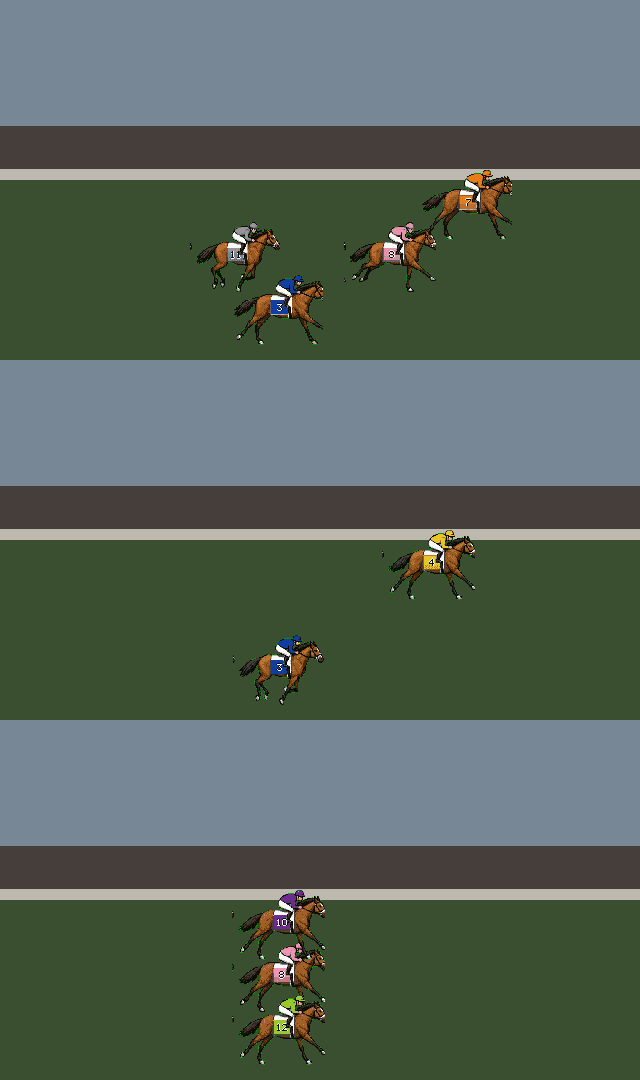
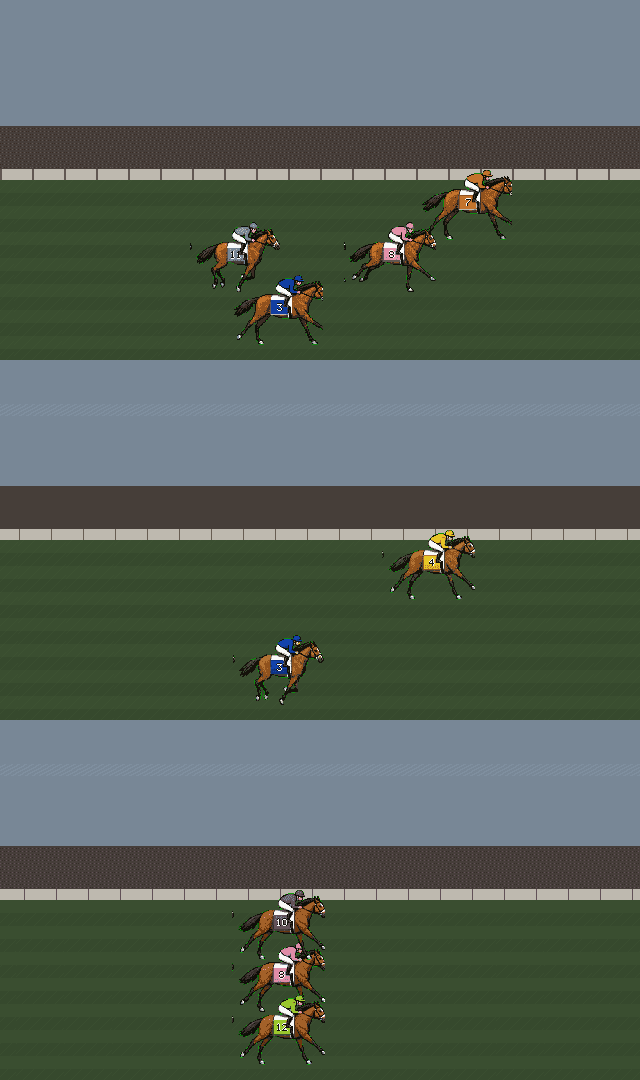
P4: 多層パララックス背景（アートバイブル §3「奥行きは速度差だけで作る」）
★層の速さは実測から決めた（推測ではない）:
  馬の見た目の速度 647px/秒（55px/m × 実測の走破速度）に対して
    空       0.06 →  39px/秒（画面横断 33秒）… 動いていると分かる遅さ
    スタンド 0.22 → 142px/秒
    ラチ     0.55 → 356px/秒
    芝       1.00 → 647px/秒（馬と同じ）

  parallax 描画コマンドを追加（role / y / height / tileWidth / offset）
  ★offset は 0 以上に保つ（負の剰余はレンダラごとに挙動が違う）

検査5件:
  ★層ごとに速さが違う（全部同じなら平面になる）
  ★手前ほど速い（空 < スタンド < ラチ < 芝）
  ★時間が進むと流れる（止まって見えない）
  ★オフセットが 0 以上
  ★倍率を変えても層が消えない

模様は縦の要素を最小限に（アートバイブル §3）。縦を使うのはラチの支柱だけ。

テスト 682件緑

diff --git a/packages/render/src/scene.ts b/packages/render/src/scene.ts
@@ -122,11 +122,23 @@ export interface SceneInput {
   readonly pxPerMeter?: number | undefined;
 }
 
-/** ★背景の帯。アートバイブル §3「水平の帯で構成する。縦の要素は最小限」 */
-const BANDS: readonly { role: PaletteRole; top: number; height: number }[] = [
-  { role: 'sky', top: 0, height: 0.35 },
-  { role: 'stand', top: 0.35, height: 0.12 },
-  { role: 'rail', top: 0.47, height: 0.03 },
+/**
+ * ★背景の層（アートバイブル §3「水平の帯で構成する」「奥行きは速度差だけで作る」）。
+ *
+ *   `speed` は**手前（走路）を 1.0 としたときの流れる速さ**。
+ *   実測（馬の見た目の速度 647px/秒）に対して:
+ *     空 0.06 → 39px/秒（画面横断 33秒）… 動いていると分かる遅さ
+ *     スタンド 0.22 → 142px/秒
+ *     ラチ 0.55 → 356px/秒
+ *
+ *   ⚠ **速さは奥行きの表現そのもの**です。全部同じにすると平面になります。
+ */
+const BANDS: readonly {
+  role: PaletteRole; top: number; height: number; speed: number; tile: number;
+}[] = [
+  { role: 'sky', top: 0, height: 0.35, speed: 0.06, tile: 320 },
+  { role: 'stand', top: 0.35, height: 0.12, speed: 0.22, tile: 160 },
+  { role: 'rail', top: 0.47, height: 0.03, speed: 0.55, tile: 64 },
 ];
 
 /**
@@ -172,18 +184,29 @@ export function sceneAt(input: SceneInput, sec: number): Frame {
   const horses = model.at(sec);
   const cam = cameraMeters(horses, camera.followGate);
   const commands: DrawCommand[] = [];
+  const PX_PER_M = input.pxPerMeter ?? SPRITE.width / 4;
 
+  /**
+   * ★背景は**カメラの位置に応じて流します**（パララックス）。
+   *   `cam` は先頭（または自馬）が走った距離なので、**そのまま流れの量**になります。
+   */
   for (const b of BANDS) {
     commands.push({
-      kind: 'band', role: b.role,
+      kind: 'parallax', role: b.role,
       y: Math.round(b.top * vp.height),
       height: Math.round(b.height * vp.height),
+      tileWidth: b.tile,
+      // ★0 以上に保つ（負の剰余はレンダラごとに挙動が違う）
+      offset: Math.max(0, Math.round(cam * PX_PER_M * b.speed)),
     });
   }
+  // ★走路は手前なので速度 1.0。馬と同じだけ流れる
   commands.push({
-    kind: 'band', role: 'turf',
+    kind: 'parallax', role: 'turf',
     y: Math.round(0.5 * vp.height),
     height: vp.height - Math.round(0.5 * vp.height),
+    tileWidth: 96,
+    offset: Math.max(0, Math.round(cam * PX_PER_M)),
   });
 
   /**
@@ -207,7 +230,6 @@ export function sceneAt(input: SceneInput, sec: number): Frame {
    *   ★**縮尺は演出ではなく、スプライトの寸法から決まります。**
    *     ここを自由に決めると、馬の大きさと走路の速さが噛み合わなくなります。
    */
-  const PX_PER_M = input.pxPerMeter ?? SPRITE.width / 4;
   const z = camera.zoom;
   for (const h of sorted) {
     // ★倍率は**整数**なので、位置も整数倍になります（画素が割れません）

diff --git a/packages/render/src/commands.ts b/packages/render/src/commands.ts
@@ -59,6 +59,24 @@ export type DrawCommand =
     readonly height: number;
   }
   /**
+   * ★**多層パララックス**（アートバイブル §3「奥行きは速度差だけで作る」）。
+   *
+   *   同じ模様を横に繰り返し、層ごとに違う速さで流します。
+   *   `offset` は**その層が左へずれた画素数**（レンダラは `offset % tileWidth` で敷き詰める）。
+   *
+   *   ⚠ **線遠近を描き込みません**（アートバイブル §3）。奥行きは**速度差だけ**で作ります。
+   */
+  | {
+    readonly kind: 'parallax';
+    readonly role: PaletteRole;
+    readonly y: number;
+    readonly height: number;
+    /** 繰り返す模様の1枚の幅 */
+    readonly tileWidth: number;
+    /** ★左へずれた画素数（0 以上。レンダラが剰余を取る） */
+    readonly offset: number;
+  }
+  /**
    * スプライト1枚。
    * ★`silk` は**色替えの指定**で、同じ `sprite` を共有したまま個体を分けます
    *   （アートバイブル §5 の「馬体は共通スプライトの色替えで足りるか」の受け口）。
